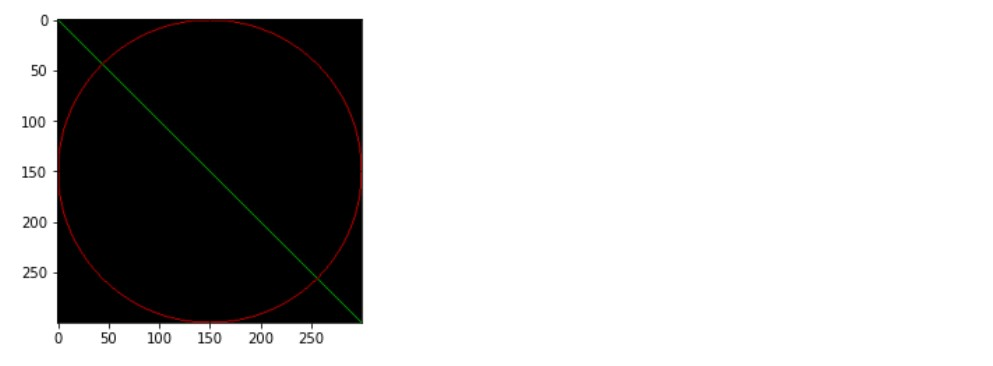
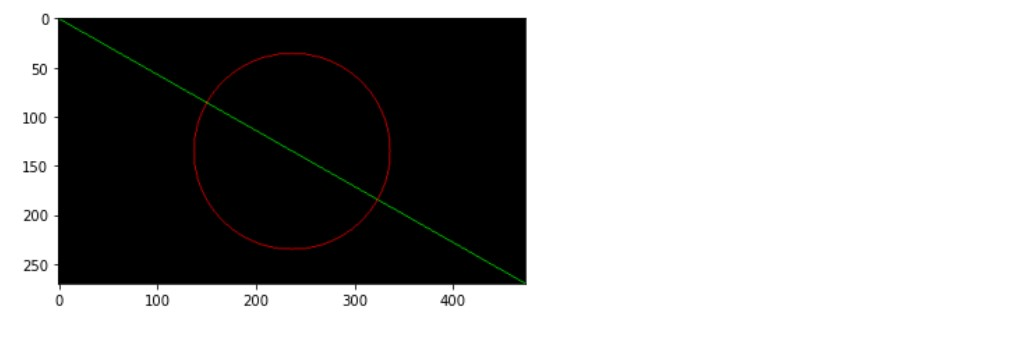
1

diff --git a/_posts/2021-09-18-opencv_create_image.md b/_posts/2021-09-18-opencv_create_image.md
@@ -45,17 +45,17 @@ Lines and circles are basic primitives we can add to the image. We use OpenCV li
 ```python
 import numpy as np
 import cv2
- 
-img = np.zeros((300, 300, 3), dtype = "uint8")
- 
+
+img = np.zeros((270,474, 3), dtype = "uint8")
+
 green = (0, 255, 0)
-cv2.line(img, (0, 0), (300, 300), green)
- 
+cv2.line(img, (0, 0), (474, 270), green)
+
 red = (255, 0, 0)
-R = 150
+R = 100
 (centerX, centerY) = (img.shape[1] // 2, img.shape[0] // 2)
 cv2.circle(img, (centerX, centerY), R , red)
- 
+
 plt.imshow(img)
 plt.show()
 ```
@@ -138,4 +138,40 @@ _ = plt.imshow(img)
 
 ![gray apple](/wp-content/uploads/2021/09/grayscale.jpg)
 
-Check out this [gist](https://gist.github.com/dejanbatanjac/7cefe4365921d75590e02c1cf43b70c2){:rel="nofollow"} for more details.
+Check out this [gist](https://gist.github.com/dejanbatanjac/2dd9274102faa365f21bf6f48107a999){:rel="nofollow"} for more details.
+
+## Read color image as grayscale (single channel)
+
+```python
+%matplotlib inline
+from matplotlib import pyplot as plt
+import cv2
+img=cv2.imread(r"apple.jpg", cv2.IMREAD_GRAYSCALE)
+print(img.shape)
+_ = plt.imshow(img)
+```
+
+![grayscale apple](/wp-content/uploads/2021/09/grayscaleapple1.jpg)
+
+But this does not look gray, because imshow method is using viridis cmap. Let's use another cmap.
+
+```python
+_ = plt.imshow(img, cmap='gray') # default is viridis
+```
+
+![grayscale apple](/wp-content/uploads/2021/09/grayscaleapple2.jpg)
+
+## Convert single channel image to RGB (three channels)
+
+```python
+%matplotlib inline
+from matplotlib import pyplot as plt
+import cv2
+grayimg=cv2.imread(r"apple.jpg", cv2.IMREAD_GRAYSCALE)
+print(grayimg.shape)
+img = cv2.cvtColor(grayimg,cv2.COLOR_GRAY2RGB)
+print(img.shape)
+_ = plt.imshow(img)
+```
+
+![grayscale apple](/wp-content/uploads/2021/09/grayscaleapple3.jpg)
